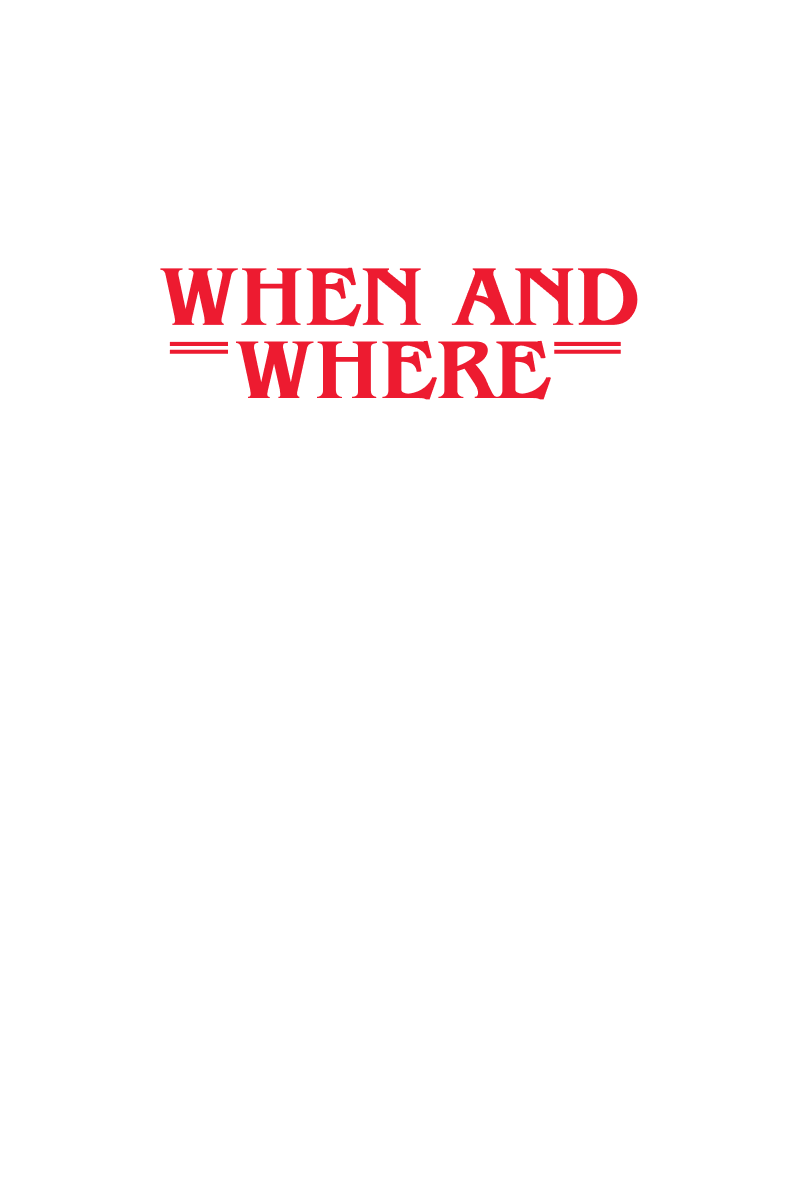
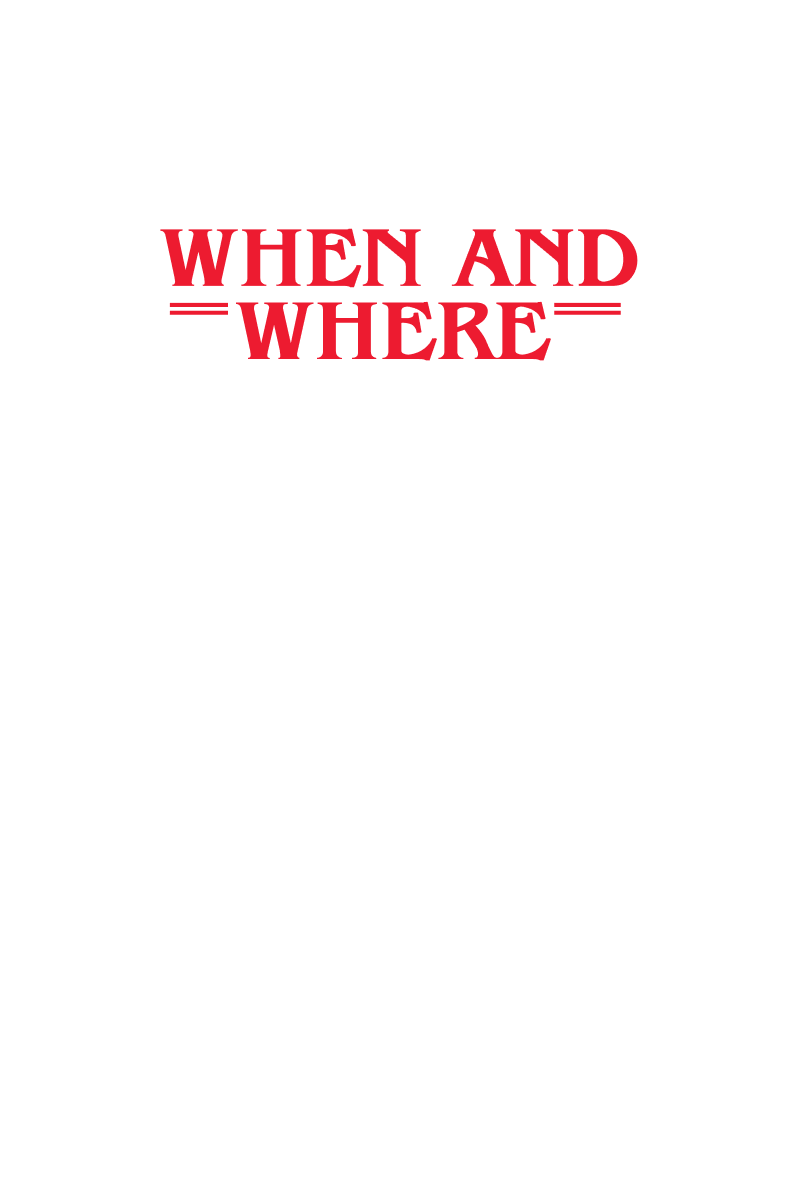
Updated when-where texture

Changed region(s): [[0.1875, 0.185, 0.8125, 0.3392]]

diff --git a/src/components/html/common/Card/WhenWhere.tsx b/src/components/html/common/Card/WhenWhere.tsx
@@ -18,7 +18,7 @@ const Content = styled.div`
   top: 58%;
   left: 50%;
   transform: translate(-50%, -50%);
-  width: 73%;
+  width: 77%;
 
   display: flex;
   flex-direction: column;
@@ -28,12 +28,11 @@ const Content = styled.div`
 const Row = styled.div`
   display: flex;
   align-items: center;
-  gap: calc(var(--card-width) / 20);
+  gap: calc(var(--card-width) / 30);
 
   p {
     font-family: var(--font-benguiat);
-    font-weight: 700;
-    font-size: calc(var(--card-width) / 24.5);
+    font-size: calc(var(--card-width) / 30);
     color: #FFEDC8;
     transition: 0.25s text-shadow;
     letter-spacing: 0.5px;
@@ -71,21 +70,16 @@ const InfoContainer = styled.div`
   display: flex;
   flex-direction: column;
   gap: 2px;
-
-  & > p {
-    text-transform: uppercase;
-  }
 `;
 
-const Value = styled.div`
-  display: grid;
-  grid-template-columns: auto auto auto;
-  column-gap: 6px;
+const Title = styled.p`
+  text-transform: uppercase;
+  font-weight: 700;
+`;
 
-  & > p {
-    font-weight: 400;
-    white-space: pre-line;
-  }
+const Value = styled.p`
+  text-transform: 400;
+  white-space: pre-line;
 `;
 
 export default React.forwardRef(({ flipped, ...props }: {
@@ -123,19 +117,15 @@ export default React.forwardRef(({ flipped, ...props }: {
         <Content>
           {config.cards.whenWhere.content.map((v, i) =>
             <Row key={i}>
-              <Icon>
+              <Icon style={v.style}>
                 <HexRing />
                 {v.icon}
               </Icon>
 
               <InfoContainer>
-                <p>{v.title}:</p>
+                <Title>{v.title}:</Title>
 
-                <Value>
-                  {v.value.map((u, i) =>
-                    <p key={i}>{u.trim()}</p>
-                  )}
-                </Value>
+                <Value dangerouslySetInnerHTML={{ __html: v.value.trim() }} />
               </InfoContainer>
             </Row>
           )}

diff --git a/src/locale.ts b/src/locale.ts
@@ -29,22 +29,26 @@ const card = {
   whenWhere: {
     date: {
       title: "Date",
-      value: ["30 Jun to 1 Oct"]
+      value: "30th June to 1st October 2023"
     },
     time: {
       title: "Time",
-      value: [
-        "Mon to Thu", "|", "2PM-10PM",
-        "Fri to Sun", "|", "10AM-10PM"
-      ]
+      value: `
+        <b>L2:</b> Open daily | 10am to 10pm
+
+        <b>L7:</b> Open Monday to Thursday from
+        2pm to 10pm (last entry at 8pm)
+
+        Friday to Sunday from
+        10am to 10pm (last entry at 8pm)
+      `
     },
     location: {
       title: "Location",
-      value: [`       
-        Bugis+, Level 7,
-        201 Victoria St, #07 - 01,
-        Singapore 188067
-      `]
+      value: `
+        Bugis+, Level 2
+        (201 Victoria St, Singapore 188067)
+      `
     }
   }
 }

diff --git a/src/config.tsx b/src/config.tsx
@@ -115,15 +115,18 @@ const cards = {
     content: [
       {
         ...locale.card.whenWhere.date,
-        icon: <Calendar style={{ width: "55%" }} />
+        icon: <Calendar style={{ width: "55%" }} />,
+        style: undefined
       },
       {
         ...locale.card.whenWhere.time,
-        icon: <Clock style={{ width: "50%" }} />
+        icon: <Clock style={{ width: "50%" }} />,
+        style: { alignSelf: "start" }
       },
       {
         ...locale.card.whenWhere.location,
-        icon: <School style={{ height: "45%" }} />
+        icon: <School style={{ height: "45%" }} />,
+        style: undefined
       }
     ]
   }
